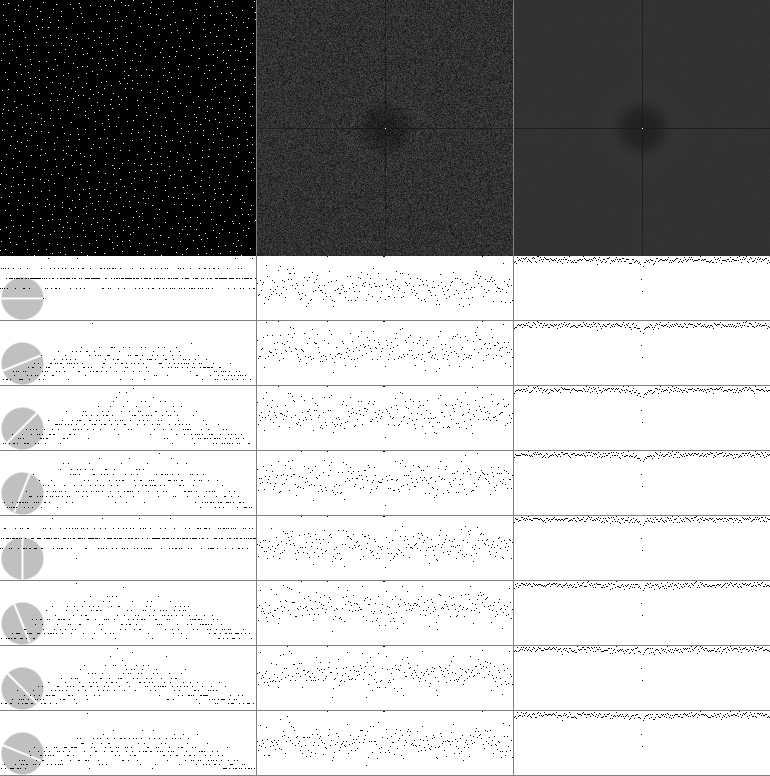
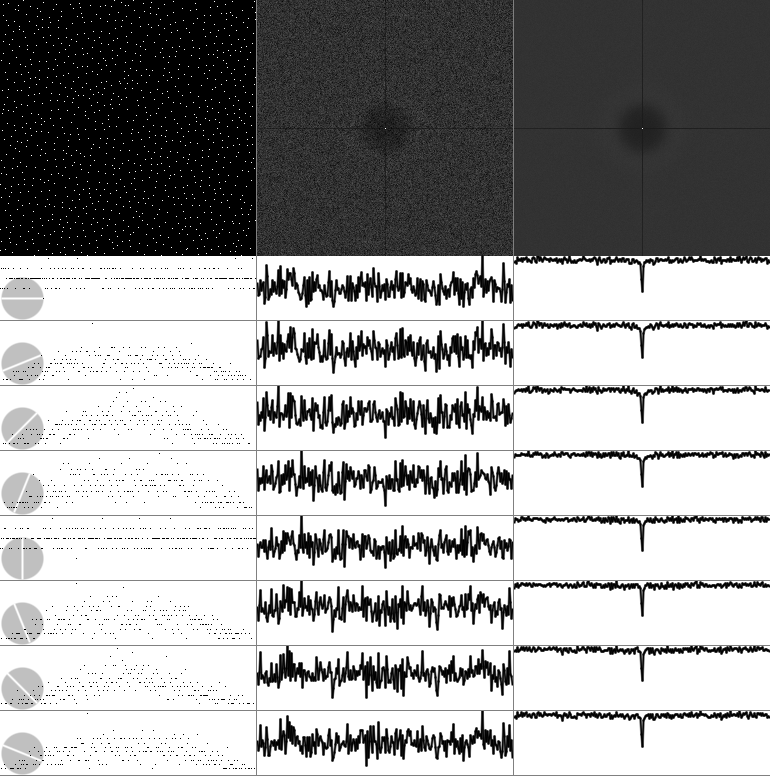
lines instead of dots for 1d dfts. helps a lot.

diff --git a/main.cpp b/main.cpp
@@ -93,11 +93,14 @@ void IncrementalAverage(const std::vector<T>& src, std::vector<T>& dest, size_t 
 
 void DrawDFT1D(const std::vector<float>& DFTMagnitudes1d, Image& image)
 {
-    std::array<float, c_imageSize> values;
-    std::array<size_t, c_imageSize> valueCount = {};
+    size_t bucketCount = std::min(c_imageSize, DFTMagnitudes1d.size());
+
+    std::vector<float> values(bucketCount);
+    std::vector<size_t> valueCount(bucketCount, 0);
+
     for (size_t index = 0; index < DFTMagnitudes1d.size(); ++index)
     {
-        size_t bucket = index * c_imageSize / DFTMagnitudes1d.size();
+        size_t bucket = index * bucketCount / DFTMagnitudes1d.size();
         valueCount[bucket]++;
         values[bucket] = Lerp(values[bucket], DFTMagnitudes1d[index], 1.0f / float(valueCount[bucket]));
     }
@@ -107,11 +110,16 @@ void DrawDFT1D(const std::vector<float>& DFTMagnitudes1d, Image& image)
     for (float f : values)
         maxValue = std::max(maxValue, f);
 
-    for (size_t index = 0; index < c_imageSize; ++index)
+    int lastX, lastY;
+    for (size_t index = 0; index < bucketCount; ++index)
     {
+        size_t pixelX = index * c_imageSize / bucketCount;
         float f = values[index] / maxValue;
-        float pixel = 64.0f - f * 64.0f;
-        DrawPoint(image, int(index), int(pixel), 0);
+        float pixelY = 64.0f - f * 64.0f;
+        if (index > 0)
+            DrawLine(image, lastX, lastY, int(pixelX), int(pixelY), 0);
+        lastX = int(pixelX);
+        lastY = int(pixelY);
     }
 
     // TODO: put a mark at 0 hz. it's in the middle
@@ -164,6 +172,7 @@ void DoTest(const char* label, const char* baseFileName, const LAMBDA& lambda)
                     std::vector<float>& radialAveraged = radialAverageds[testIndex];
                     RadiallyAveragePowerSpectrum(imageDFT, c_imageSize, radialAveraged, c_radialAverageBucketCount);
 
+                    // TODO: radialAveraged is already normalized.
                     // TODO: normalize the raidally averaged power spectrum? probably! also make an image??
                     // TODO: put this somewhere else?
                     // TODO: get the averaged image too for averaged tests!
@@ -171,9 +180,9 @@ void DoTest(const char* label, const char* baseFileName, const LAMBDA& lambda)
                     if (testIndex == 0)
                     {
                         Image blah(c_imageSize, 64, 255);
-                        std::vector<float> radialAveragedNormalized;
-                        NormalizeDFT(radialAveraged, radialAveragedNormalized);
-                        DrawDFT1D(radialAveragedNormalized, blah);
+                        //std::vector<float> radialAveragedNormalized;
+                        //NormalizeDFT(radialAveraged, radialAveragedNormalized);
+                        DrawDFT1D(radialAveraged, blah);
                         sprintf(fileName, "%s_radial.png", baseFileName);
                         SaveImage(fileName, blah);
                     }
